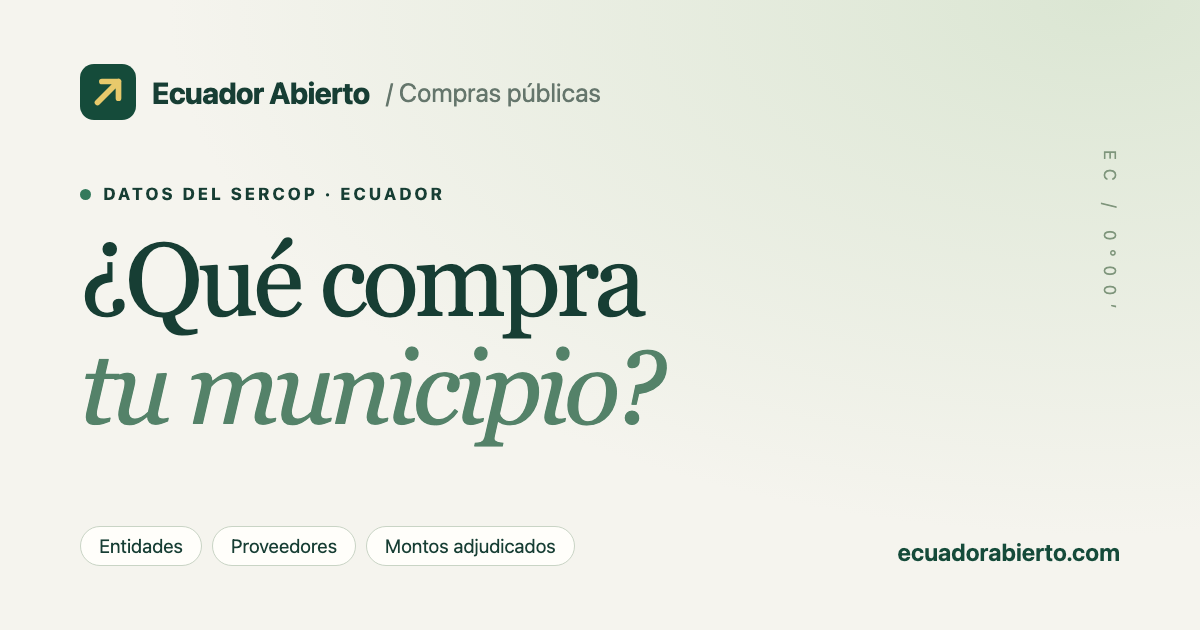
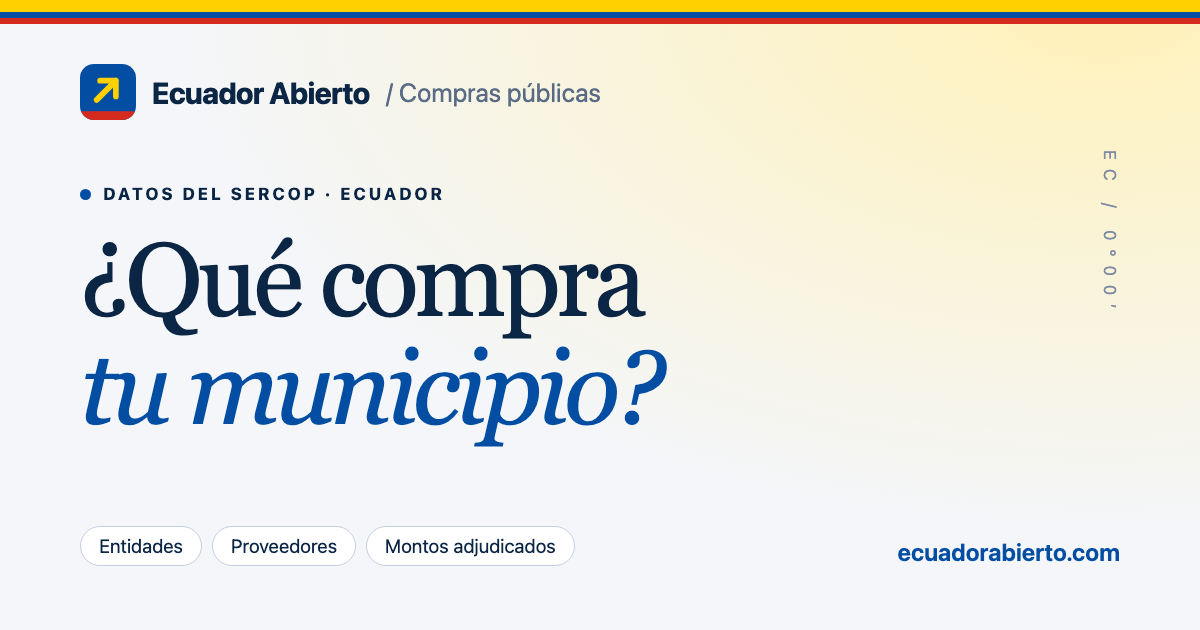
Re-theme in Ecuador flag colors
- Yellow, blue and red tokens; blue as brand, yellow as accent
- Flag band (2:1:1) across the top of every page and the Open Graph cards
- Cool blue-grey background and navy ink replace the cream and green palette
- Favicon in flag colors; review signals stay amber, not red
- Drop sequence numbers from home module labels

diff --git a/public/styles.css b/public/styles.css
@@ -1,16 +1,30 @@
 :root {
-  --bg: #f5f4ee;
-  --card: #fffefa;
-  --ink: #173e34;
-  --muted: #65766c;
-  --line: #dde3d9;
-  --brand: #154b3a;
-  --brand-ink: #fffefa;
-  --accent: #e8c96b;
-  --bar: #337a5c;
-  --bar-soft: #e7eee4;
-  --warn-bg: #fbf1d4;
-  --warn-ink: #765719;
+  /* Ecuador flag: yellow, blue and red in 2:1:1 bands. */
+  --flag-yellow: #ffd100;
+  --flag-blue: #034ea2;
+  --flag-red: #d52b1e;
+  --bg: #f4f6fa;
+  --card: #ffffff;
+  --ink: #0b2545;
+  --muted: #5a6b85;
+  --line: #dde3ee;
+  --brand: var(--flag-blue);
+  --brand-ink: #ffffff;
+  --accent: var(--flag-yellow);
+  --bar: var(--flag-blue);
+  --bar-soft: #e6edf8;
+  --warn-bg: #fff4c2;
+  --warn-ink: #6b5200;
+}
+body::before {
+  content: "";
+  display: block;
+  height: 12px;
+  background: linear-gradient(
+    var(--flag-yellow) 0 50%,
+    var(--flag-blue) 50% 75%,
+    var(--flag-red) 75%
+  );
 }
 * {
   box-sizing: border-box;
@@ -44,7 +58,7 @@ select {
   -webkit-tap-highlight-color: transparent;
 }
 :focus-visible {
-  outline: 3px solid #bd8d27;
+  outline: 3px solid var(--brand);
   outline-offset: 4px;
 }
 button {
@@ -102,7 +116,7 @@ a {
 header {
   border-top: 1px solid var(--line);
   padding: 55px 0 0;
-  background: radial-gradient(ellipse at 90% 5%, #e0e9d9 0, transparent 55%);
+  background: radial-gradient(ellipse at 90% 5%, #fff3c4 0, transparent 55%);
 }
 .eyebrow {
   font-size: 10px;
@@ -128,7 +142,7 @@ h1 {
 }
 h1 em {
   font-weight: 400;
-  color: #548269;
+  color: var(--brand);
 }
 .intro {
   max-width: 500px;
@@ -149,15 +163,15 @@ h1 em {
   display: grid;
   grid-template-columns: repeat(3, 1fr);
   margin-top: 42px;
-  border-top: 1px solid #ccd9c9;
-  border-bottom: 1px solid #ccd9c9;
+  border-top: 1px solid #d3dbe8;
+  border-bottom: 1px solid #d3dbe8;
 }
 .kpi {
   padding: 23px 0 25px;
 }
 .kpi + .kpi {
   padding-left: 35px;
-  border-left: 1px solid #ccd9c9;
+  border-left: 1px solid #d3dbe8;
 }
 .kpi b {
   font-size: 34px;
@@ -186,7 +200,7 @@ main {
   border-radius: 18px;
   padding: 28px;
   margin-bottom: 22px;
-  box-shadow: 0 3px 5px #193a2603;
+  box-shadow: 0 3px 5px #0b254505;
 }
 h2 {
   font-size: 22px;
@@ -208,12 +222,12 @@ h2 {
   width: 100%;
   min-width: 0;
   padding: 16px 18px;
-  border: 1px solid #bdcebe;
+  border: 1px solid #c5d0e2;
   border-radius: 10px;
   background: #fff;
   color: var(--ink);
   font-size: 14px;
-  box-shadow: 0 2px 3px #163c3105;
+  box-shadow: 0 2px 3px #0b254505;
 }
 .chips {
   display: flex;
@@ -272,7 +286,7 @@ h2 {
   transition: background 0.15s;
 }
 .results a:hover {
-  background: #eff4eb;
+  background: #edf2fa;
 }
 .entity-icon {
   flex: none;
@@ -280,9 +294,9 @@ h2 {
   place-items: center;
   width: 34px;
   height: 36px;
-  background: #edf1e8;
+  background: #edf2fa;
   border-radius: 8px;
-  color: #6e8c73;
+  color: #5a76a3;
   font-size: 20px;
 }
 .entity-name {
@@ -307,14 +321,14 @@ h2 {
 .arrow {
   font-size: 13px;
   margin-left: 10px;
-  color: #7e9583;
+  color: #7d8ba3;
 }
 .more {
   width: 100%;
   padding: 13px;
   border: 1px solid var(--line);
   border-radius: 8px;
-  background: #f4f6ef;
+  background: #f1f4f9;
   color: var(--brand);
   margin-top: 14px;
   font-size: 12px;
@@ -381,7 +395,7 @@ h2 {
   justify-content: space-between;
   align-items: center;
   gap: 25px;
-  background: #e7eddf;
+  background: #e6edf8;
   border-radius: 18px;
   padding: 32px;
   max-width: 1156px;
@@ -526,8 +540,8 @@ th {
 }
 .docs pre {
   padding: 22px;
-  background: #173e34;
-  color: #e5eedc;
+  background: var(--ink);
+  color: #e6edf8;
   border-radius: 10px;
   overflow: auto;
   font-size: 13px;
@@ -583,7 +597,7 @@ a.module:hover {
     writing-mode: vertical-rl;
     letter-spacing: 7px;
     font-size: 12px;
-    color: #7e957b;
+    color: #7d8ba3;
   }
 }
 @media (max-width: 850px) {

diff --git a/scripts/brand/og.html b/scripts/brand/og.html
@@ -14,9 +14,9 @@
         height: 630px;
         overflow: hidden;
         background:
-          radial-gradient(ellipse at 92% 0%, #dbe6d3 0, transparent 60%),
-          #f5f4ee;
-        color: #173e34;
+          radial-gradient(ellipse at 92% 0%, #fff1b8 0, transparent 60%),
+          #f4f6fa;
+        color: #0b2545;
         font-family: -apple-system, BlinkMacSystemFont, "Segoe UI", sans-serif;
         padding: 64px 80px;
         display: flex;
@@ -37,7 +37,7 @@
       }
       .top span {
         font-weight: 400;
-        color: #65766c;
+        color: #5a6b85;
         font-size: 26px;
         letter-spacing: 0;
       }
@@ -54,7 +54,7 @@
         width: 11px;
         height: 11px;
         border-radius: 50%;
-        background: #337a5c;
+        background: #034ea2;
       }
       h1 {
         margin-top: 22px;
@@ -65,7 +65,7 @@
         letter-spacing: -4.5px;
       }
       h1 em {
-        color: #548269;
+        color: #034ea2;
       }
       .foot {
         margin-top: auto;
@@ -73,10 +73,10 @@
         justify-content: space-between;
         align-items: flex-end;
         font-size: 24px;
-        color: #65766c;
+        color: #5a6b85;
       }
       .foot b {
-        color: #154b3a;
+        color: #034ea2;
         font-weight: 650;
       }
       .tags {
@@ -84,12 +84,24 @@
         gap: 10px;
       }
       .tags span {
-        border: 1.5px solid #c9d4c5;
+        border: 1.5px solid #c5d0e2;
         border-radius: 999px;
         padding: 8px 18px;
         font-size: 19px;
-        color: #173e34;
-        background: #fffefa;
+        color: #0b2545;
+        background: #ffffff;
+      }
+      .flag {
+        position: absolute;
+        left: 0;
+        top: 0;
+        width: 100%;
+        height: 24px;
+        background: linear-gradient(
+          #ffd100 0 50%,
+          #034ea2 50% 75%,
+          #d52b1e 75%
+        );
       }
       .rule {
         position: absolute;
@@ -98,11 +110,12 @@
         writing-mode: vertical-rl;
         letter-spacing: 9px;
         font-size: 17px;
-        color: #7e957b;
+        color: #7d8ba3;
       }
     </style>
   </head>
   <body>
+    <div class="flag"></div>
     <div class="top">
       <img src="../../public/favicon.svg" alt="" />Ecuador Abierto
       <span id="module"></span>

diff --git a/public/index.html b/public/index.html
@@ -9,7 +9,7 @@
       content="Datos públicos del Ecuador, claros y verificables, para personas y agentes. Empieza por las compras públicas del SERCOP."
     />
     <link rel="canonical" href="https://ecuadorabierto.com/" />
-    <meta name="theme-color" content="#154b3a" />
+    <meta name="theme-color" content="#034ea2" />
     <link rel="icon" href="/favicon.ico" sizes="32x32" />
     <link rel="icon" href="/favicon.svg" type="image/svg+xml" />
     <link rel="apple-touch-icon" href="/apple-touch-icon.png" />
@@ -103,7 +103,7 @@
     <main class="wrap">
       <section class="modules" id="modulos" aria-label="Módulos">
         <a class="card module" href="/compras/">
-          <div class="eyebrow">01 / DISPONIBLE</div>
+          <div class="eyebrow">DISPONIBLE</div>
           <h2>Compras públicas</h2>
           <p class="muted">
             Qué compra cada municipio, prefectura y entidad pública, a quién y
@@ -113,7 +113,7 @@
           <span class="module-go">Explorar ↗</span>
         </a>
         <div class="card module soon">
-          <div class="eyebrow">02 / PRÓXIMAMENTE</div>
+          <div class="eyebrow">PRÓXIMAMENTE</div>
           <h2>Presupuesto</h2>
           <p class="muted">
             Cuánto se asigna y cuánto se ejecuta realmente, entidad por entidad.
@@ -121,21 +121,21 @@
           </p>
         </div>
         <div class="card module soon">
-          <div class="eyebrow">03 / PRÓXIMAMENTE</div>
+          <div class="eyebrow">PRÓXIMAMENTE</div>
           <h2>Asamblea</h2>
           <p class="muted">
             Cómo vota cada asambleísta y qué proyectos de ley impulsa.
           </p>
         </div>
         <div class="card module soon">
-          <div class="eyebrow">04 / PRÓXIMAMENTE</div>
+          <div class="eyebrow">PRÓXIMAMENTE</div>
           <h2>Elecciones</h2>
           <p class="muted">
             Resultados y financiamiento de campañas. Fuente: CNE.
           </p>
         </div>
         <div class="card module soon">
-          <div class="eyebrow">05 / PRÓXIMAMENTE</div>
+          <div class="eyebrow">PRÓXIMAMENTE</div>
           <h2>Indicadores</h2>
           <p class="muted">
             Pobreza, empleo y precios por provincia. Fuente: INEC.

diff --git a/public/developers.html b/public/developers.html
@@ -9,7 +9,7 @@
       content="Conecta agentes a los datos públicos del Ecuador con MCP. Endpoint público y herramientas de consulta, empezando por las compras públicas del SERCOP."
     />
     <link rel="canonical" href="https://ecuadorabierto.com/developers" />
-    <meta name="theme-color" content="#154b3a" />
+    <meta name="theme-color" content="#034ea2" />
     <link rel="icon" href="/favicon.ico" sizes="32x32" />
     <link rel="icon" href="/favicon.svg" type="image/svg+xml" />
     <link rel="apple-touch-icon" href="/apple-touch-icon.png" />

diff --git a/public/compras/index.html b/public/compras/index.html
@@ -9,7 +9,7 @@
       content="Qué compra cada municipio, prefectura y entidad pública del Ecuador, y a quién. Datos abiertos del SERCOP."
     />
     <link rel="canonical" href="https://ecuadorabierto.com/compras/" />
-    <meta name="theme-color" content="#154b3a" />
+    <meta name="theme-color" content="#034ea2" />
     <link rel="icon" href="/favicon.ico" sizes="32x32" />
     <link rel="icon" href="/favicon.svg" type="image/svg+xml" />
     <link rel="apple-touch-icon" href="/apple-touch-icon.png" />
